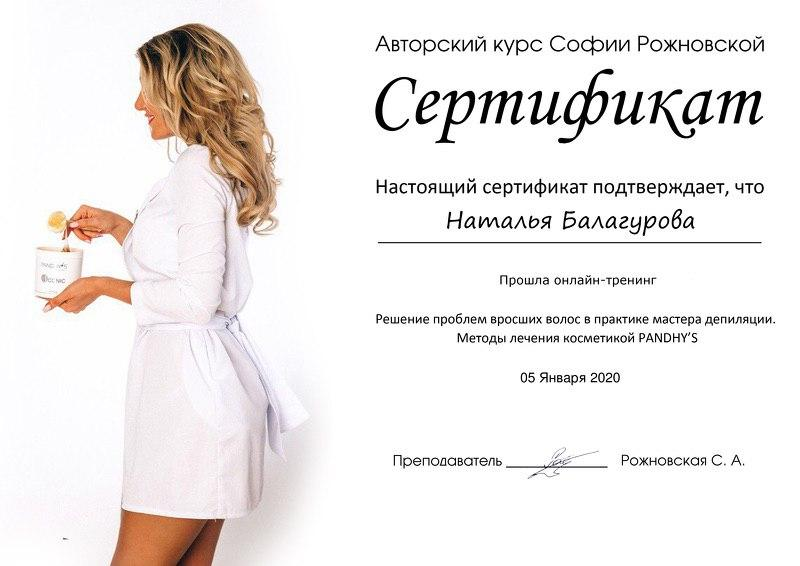
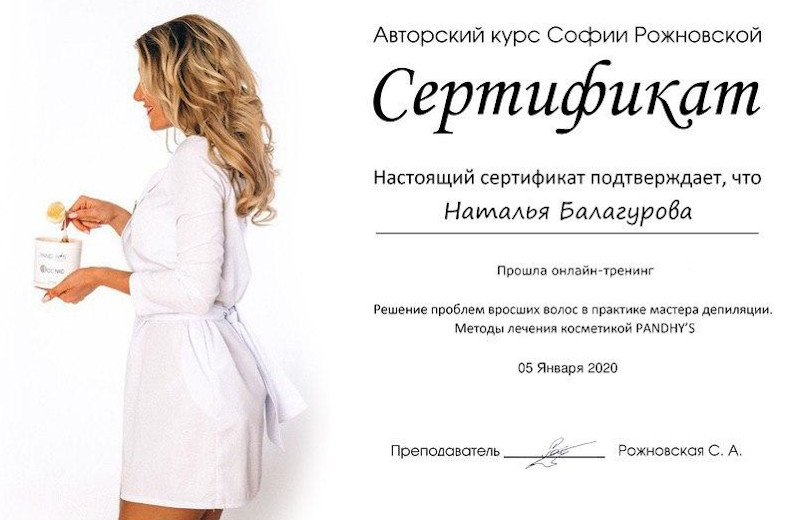
Изменила высоту сертиф на одинаковую. Изменила кол-во серт на экране меньше 992  -2шт

diff --git a/index.html b/index.html
@@ -312,7 +312,25 @@
            $(document).ready(function(){
   $('.certificates').slick({
   slidesToShow: 3,
-  slidesToScroll: 1
+  slidesToScroll: 1,
+  responsive: [
+    {
+      breakpoint: 992,
+      settings: {
+        slidesToShow: 2,
+        slidesToScroll: 1,
+      }
+    },
+    {
+      breakpoint: 768,
+      settings: {
+        slidesToShow: 2,
+        slidesToScroll: 1
+      }
+    }
+    
+   
+  ]
   });
 });
         </script>

diff --git a/css/style.css b/css/style.css
@@ -214,11 +214,12 @@ body {
     margin: 30px 0 30px 0;
 }
 .sert {
-   height: 138px;
+   
     margin: 5px;
 }
 .img-sert {
    width: 100%;
    height: 100%;
-  border: solid rgb(43, 23, 17);
+   object-fit:cover;
+  
 }
